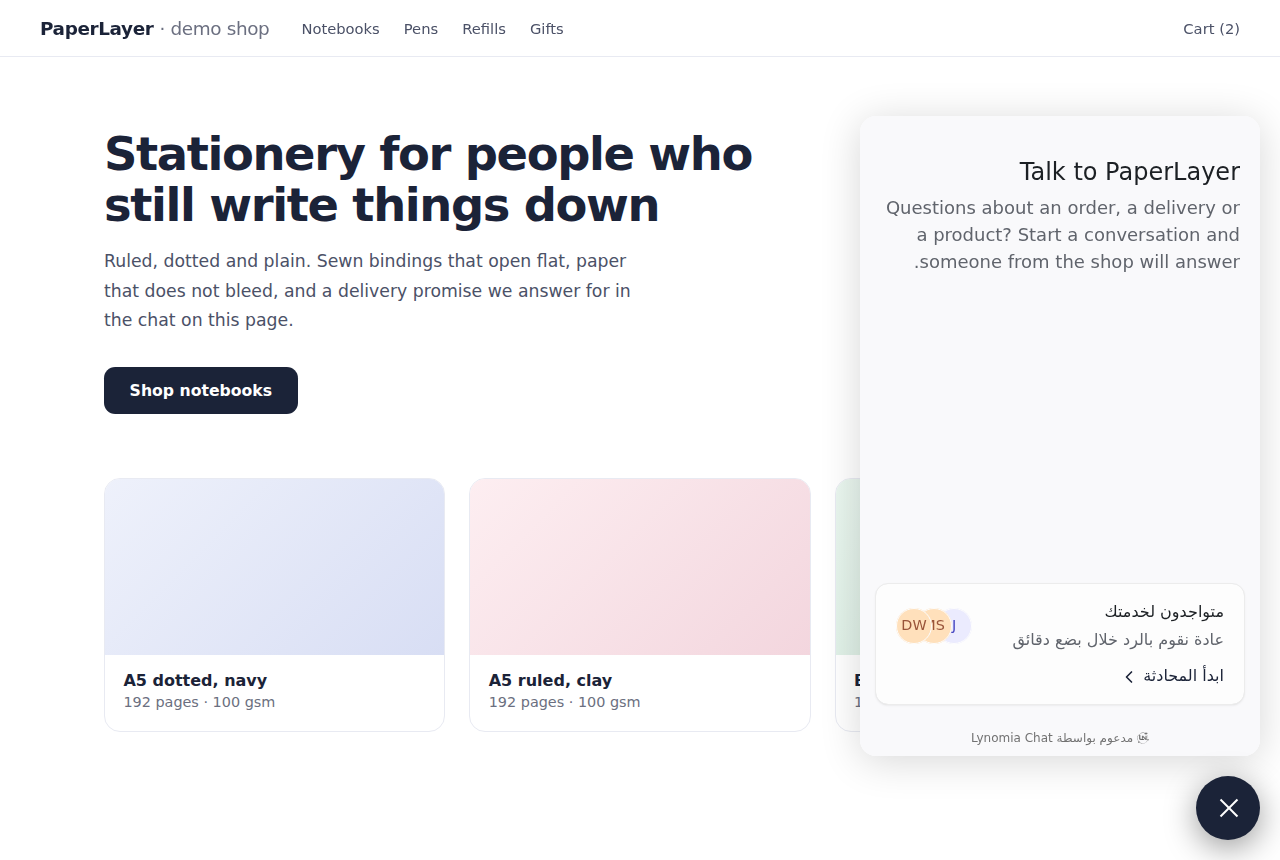
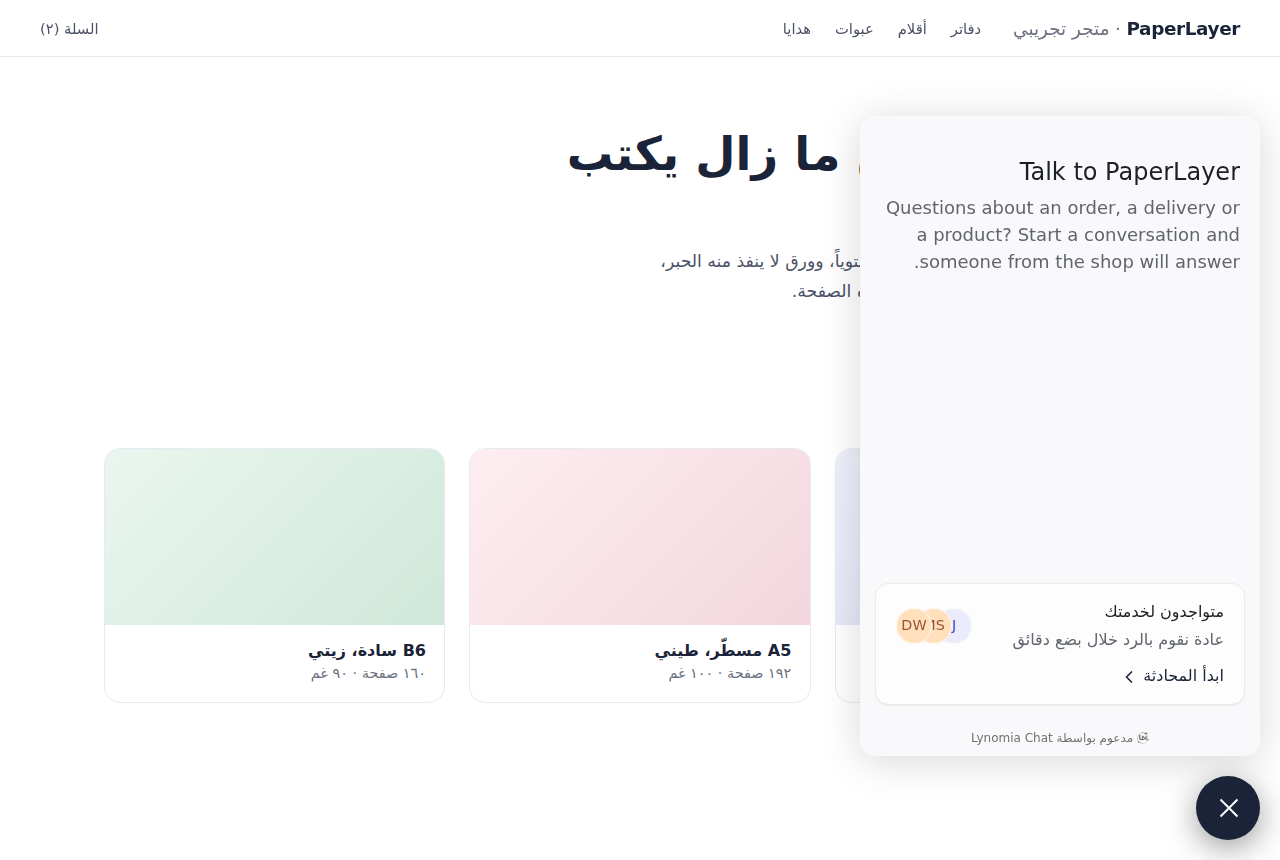
fix(docs): the Arabic corpus renders as Arabic, and three articles now match the code
Five more from the adversarial read, all in what this branch added.

**NINE ARABIC ARTICLES HAD NO STEP LISTS.** They wrote their procedures as `١.` `٢.` `٣.`, and
CommonMark recognises only ASCII digits as an ordered-list marker -- so every one of those lists was
a single run-on paragraph with numerals inline, while the English sibling rendered an `<ol>`.
Measured with the repo's own parser: ar/connect-telegram parsed 0 lists before and 4 lists / 13
items after, which is exactly what its English sibling parses.

**THE ARABIC CHAT-BUBBLE SCREENSHOT WAS THE ENGLISH ONE**, byte for byte -- the only identical pair
in the media tree. Not a copy-paste: the demo shop the widget sits on was hardcoded `lang="en"`, and
the closed launcher carries no text, so an Arabic capture of it could not differ. The host page now
takes its language from the capture script, which keeps the install snippet in one place rather than
forking the file. The Arabic source is a right-to-left Arabic shop now, and the two captures differ.

**THREE ARTICLES DESCRIBED A PRODUCT THAT IS NOT THIS ONE.** An Articles tab in search, which
`help_center: enabled: false` removes for every account in this fork; a three-character search
minimum that is two in `SearchInput.vue`, with an all-digit exception the article's own
search-by-id advice depends on; and three toggles placed in Widget features that `Settings.vue` puts
in Channel Preferences. Corrected in both locales.
[…]

diff --git a/tools/visual/widget-host/index.html b/tools/visual/widget-host/index.html
@@ -20,18 +20,24 @@
 
   THE TOKEN IS A PLACEHOLDER. `__WEBSITE_TOKEN__` and `__BASE_URL__` are substituted by the capture script
   from the database, so this file does not go stale when the seed is rebuilt.
+
+  SO IS THE LANGUAGE. Every word a reader sees, plus `lang` and `dir`, is a placeholder the capture script
+  fills from its own per-locale table. ONE file rather than one per language, because the snippet below is
+  quoted verbatim in the article and a second copy of it is a second thing to keep in step. It also makes
+  the Arabic figure honest: the shop around the widget reads right to left, instead of an English page with
+  an Arabic caption under it.
 -->
-<html lang="en">
+<html lang="__LANG__" dir="__DIR__">
 <head>
   <meta charset="utf-8">
   <meta name="viewport" content="width=device-width, initial-scale=1">
-  <title>PaperLayer — stationery for people who still write things down</title>
+  <title>__TITLE__</title>
   <style>
     :root { color-scheme: light; }
     * { box-sizing: border-box; }
     body {
       margin: 0;
-      font-family: ui-sans-serif, system-ui, -apple-system, "Segoe UI", Roboto, Arial, sans-serif;
+      font-family: __FONT__;
       color: #1b2338;
       background: #fff;
     }
@@ -60,32 +66,31 @@
 </head>
 <body>
   <header>
-    <div class="logo">PaperLayer <span>· demo shop</span></div>
-    <nav><span>Notebooks</span><span>Pens</span><span>Refills</span><span>Gifts</span></nav>
-    <div class="cart">Cart (2)</div>
+    <div class="logo">PaperLayer <span>· __DEMO__</span></div>
+    <nav><span>__NAV1__</span><span>__NAV2__</span><span>__NAV3__</span><span>__NAV4__</span></nav>
+    <div class="cart">__CART__</div>
   </header>
 
   <section class="hero">
-    <h1>Stationery for people who still write things down</h1>
+    <h1>__H1__</h1>
     <p>
-      Ruled, dotted and plain. Sewn bindings that open flat, paper that does not bleed, and a delivery
-      promise we answer for in the chat on this page.
+      __LEDE__
     </p>
-    <a class="buy" href="#">Shop notebooks</a>
+    <a class="buy" href="#">__CTA__</a>
   </section>
 
   <section class="grid">
     <article class="card">
       <div class="swatch" style="background: linear-gradient(135deg,#eef1fb,#d8def4)"></div>
-      <div class="meta"><h2>A5 dotted, navy</h2><p>192 pages · 100 gsm</p></div>
+      <div class="meta"><h2>__P1__</h2><p>__P1META__</p></div>
     </article>
     <article class="card">
       <div class="swatch" style="background: linear-gradient(135deg,#fdeef1,#f3d6de)"></div>
-      <div class="meta"><h2>A5 ruled, clay</h2><p>192 pages · 100 gsm</p></div>
+      <div class="meta"><h2>__P2__</h2><p>__P2META__</p></div>
     </article>
     <article class="card">
       <div class="swatch" style="background: linear-gradient(135deg,#eaf6ef,#cfe8da)"></div>
-      <div class="meta"><h2>B6 plain, sage</h2><p>160 pages · 90 gsm</p></div>
+      <div class="meta"><h2>__P3__</h2><p>__P3META__</p></div>
     </article>
   </section>
 

diff --git a/custom/db/documentation/ar/channels/connect-sms.md b/custom/db/documentation/ar/channels/connect-sms.md
@@ -24,12 +24,12 @@ seo_description: ربط قناة الرسائل النصية في لينوميا
 
 ## الخطوات
 
-١. اذهب إلى **الإعدادات ← قنوات التواصل**، أضف صندوق وارد، واختر **الرسائل النصية**.
-٢. اختر المزوّد: **Twilio** أو **Bandwidth**.
-٣. املأ البيانات، واسم صندوق الوارد، والرقم الذي سترسل منه الرسائل. ويجب أن يكون الرقم بالصيغة الدولية — علامة
+1. اذهب إلى **الإعدادات ← قنوات التواصل**، أضف صندوق وارد، واختر **الرسائل النصية**.
+2. اختر المزوّد: **Twilio** أو **Bandwidth**.
+3. املأ البيانات، واسم صندوق الوارد، والرقم الذي سترسل منه الرسائل. ويجب أن يكون الرقم بالصيغة الدولية — علامة
    `+` ثم أرقام، بلا مسافات.
-٤. أنهِ الإعداد، ثم افتح تبويب **الإعدادات** في القناة وانسخ **عنوان الاستدعاء** (Callback URL).
-٥. الصق ذلك العنوان في لوحة مزوّدك بوصفه عنوان استدعاء الرسائل لذلك الرقم أو التطبيق. هذه هي الخطوة التي
+4. أنهِ الإعداد، ثم افتح تبويب **الإعدادات** في القناة وانسخ **عنوان الاستدعاء** (Callback URL).
+5. الصق ذلك العنوان في لوحة مزوّدك بوصفه عنوان استدعاء الرسائل لذلك الرقم أو التطبيق. هذه هي الخطوة التي
    يتجاوزها الناس، وهي التي تجعل الرسائل الواردة تعمل: فبدونها ترسل ولا تستقبل أبداً.
 
 ## حدود ينبغي معرفتها

diff --git a/custom/db/documentation/ar/channels/connect-telegram.md b/custom/db/documentation/ar/channels/connect-telegram.md
@@ -14,18 +14,18 @@ seo_description: ربط روبوت Telegram بلينوميا تشات عبر Bot
 
 رمز روبوت تيليجرام، وتحصل عليه من **BotFather** — روبوت تيليجرام الخاص بصناعة الروبوتات.
 
-١. في تيليجرام، افتح محادثة مع `@BotFather`.
-٢. أرسل `/newbot`.
-٣. أعطه اسماً ظاهراً، واسم مستخدم ينتهي بـ `bot`.
-٤. يردّ BotFather برمز يشبه `123456789:AAH...`. وهذا ما تلصقه.
+1. في تيليجرام، افتح محادثة مع `@BotFather`.
+2. أرسل `/newbot`.
+3. أعطه اسماً ظاهراً، واسم مستخدم ينتهي بـ `bot`.
+4. يردّ BotFather برمز يشبه `123456789:AAH...`. وهذا ما تلصقه.
 
 والاسم الظاهر وصورة الملف اللذان يراهما عملاؤك يخصّان الروبوت، وتغيّرهما في BotFather — لا في لينوميا تشات.
 
 ## الخطوات
 
-١. اذهب إلى **الإعدادات ← قنوات التواصل**، أضف صندوق وارد، واختر **تيليجرام**.
-٢. الصق **رمز الروبوت**.
-٣. أضف الوكلاء الذين سيعملون في هذه القناة، ثم أنهِ الإعداد.
+1. اذهب إلى **الإعدادات ← قنوات التواصل**، أضف صندوق وارد، واختر **تيليجرام**.
+2. الصق **رمز الروبوت**.
+3. أضف الوكلاء الذين سيعملون في هذه القناة، ثم أنهِ الإعداد.
 
 يسجّل لينوميا تشات نفسه لدى تيليجرام بوصفه webhook الروبوت، فتبدأ الرسائل بالوصول فوراً. أرسل إلى روبوتك
 رسالة من حسابك الشخصي لتراها تهبط.

diff --git a/custom/db/documentation/ar/channels/connect-email.md b/custom/db/documentation/ar/channels/connect-email.md
@@ -21,11 +21,11 @@ seo_description: ربط قناة البريد الإلكتروني في لينو
 
 ## الخطوات
 
-١. اذهب إلى **الإعدادات ← قنوات التواصل**، أضف صندوق وارد، واختر **البريد الإلكتروني**.
-٢. أعطِ القناة اسماً، والعنوان الذي يكتب إليه عملاؤك.
-٣. أنهِ الإعداد. تعرض الشاشة الأخيرة **عنوان إعادة التوجيه** — عنواناً طويلاً فريداً على نطاق البريد الوارد
+1. اذهب إلى **الإعدادات ← قنوات التواصل**، أضف صندوق وارد، واختر **البريد الإلكتروني**.
+2. أعطِ القناة اسماً، والعنوان الذي يكتب إليه عملاؤك.
+3. أنهِ الإعداد. تعرض الشاشة الأخيرة **عنوان إعادة التوجيه** — عنواناً طويلاً فريداً على نطاق البريد الوارد
    للتثبيت. وكل ما يُعاد توجيهه إليه يصبح محادثة على هذه القناة.
-٤. إما أن تضبط إعادة التوجيه عند مزوّد بريدك إلى ذلك العنوان، وإما أن تفتح إعدادات القناة وتهيّئ **IMAP**
+4. إما أن تضبط إعادة التوجيه عند مزوّد بريدك إلى ذلك العنوان، وإما أن تفتح إعدادات القناة وتهيّئ **IMAP**
    (للاستقبال) و**SMTP** (للإرسال) بدلاً منه.
 
 وIMAP وSMTP مفتاحان لا مفتاح واحد، وهما مستقلّان. فتشغيل IMAP دون SMTP يستقبل البريد ويرسل الردود من خادم

diff --git a/custom/db/documentation/ar/channels/connect-line.md b/custom/db/documentation/ar/channels/connect-line.md
@@ -21,11 +21,11 @@ seo_description: ربط حساب LINE الرسمي بلينوميا تشات —
 
 ## الخطوات
 
-١. اذهب إلى **الإعدادات ← قنوات التواصل**، أضف صندوق وارد، واختر **لاين**.
-٢. أدخل اسم قناة للوحة تحكّمك، ثم معرّف القناة وسرّها ورمز الوصول.
-٣. أنهِ الإعداد. افتح تبويب **الإعدادات** في القناة وانسخ **عنوان الاستدعاء**.
-٤. في LINE Developers Console، اجعل ذلك العنوان هو **Webhook URL** للقناة، وفعّل "Use webhook".
-٥. في اللوحة نفسها، **عطّل** الردود التلقائية ورسائل الترحيب إن أردت أن يكون وكلاؤك هم من يردّ. فلاين يردّ
+1. اذهب إلى **الإعدادات ← قنوات التواصل**، أضف صندوق وارد، واختر **لاين**.
+2. أدخل اسم قناة للوحة تحكّمك، ثم معرّف القناة وسرّها ورمز الوصول.
+3. أنهِ الإعداد. افتح تبويب **الإعدادات** في القناة وانسخ **عنوان الاستدعاء**.
+4. في LINE Developers Console، اجعل ذلك العنوان هو **Webhook URL** للقناة، وفعّل "Use webhook".
+5. في اللوحة نفسها، **عطّل** الردود التلقائية ورسائل الترحيب إن أردت أن يكون وكلاؤك هم من يردّ. فلاين يردّ
    نيابة عن الحساب افتراضياً، وتلك الردود لا تأتي من لينوميا تشات.
 
 ## حدود ينبغي معرفتها

diff --git a/custom/db/documentation/en/channels/website-live-chat.md b/custom/db/documentation/en/channels/website-live-chat.md
@@ -116,7 +116,7 @@ you save.
 | the colour of the bubble and the visitor's messages | Widget Color |
 | "Typically replies in a few minutes" | Reply time |
 | "We are Online" / "We are away at the moment" | whether any agent of this channel is online right now |
-| the first reply the visitor receives | the channel greeting |
+| the first reply the visitor receives | the channel greeting, in **Channel Preferences** |
 | the paper-clip, the emoji button, "End conversation" | Features |
 
 **Reply time is a promise you are making, not a measurement.** It says what you choose — a few minutes, a
@@ -157,13 +157,14 @@ contact with an email address is worth a great deal — you can reply when they 
 can continue over email. Asking for a name and an email is usually right; asking for a phone number, a
 company and an order number usually is not.
 
-If you do not use a pre-chat form, switch on the **email collect box** instead (in Widget features). It asks
+If you do not use a pre-chat form, switch on the **email collect box** instead (in **Channel Preferences**, the accordion below Widget
+features). It asks
 for an email address inside the conversation, after the visitor has already started talking to you, which
 costs far fewer of them.
 
 ## Making the channel yours
 
-Three settings on the **Widget features** section decide how the conversation behaves rather than how it
+Three settings on the **Channel Preferences** section decide how the conversation behaves rather than how it
 looks:
 
 - **Enable email collect box** — asks an anonymous visitor for their email address inside the chat.

diff --git a/custom/db/documentation/ar/channels/connect-facebook-and-instagram.md b/custom/db/documentation/ar/channels/connect-facebook-and-instagram.md
@@ -19,11 +19,11 @@ seo_description: ربط صفحة فيسبوك وحساب إنستغرام بلي
 
 ## الخطوات
 
-١. اذهب إلى **الإعدادات ← قنوات التواصل**، أضف صندوق وارد، واختر **فيسبوك** أو **إنستغرام**.
-٢. سجّل الدخول إلى Meta في النافذة التي تُفتح، وامنح الصلاحيات التي تطلبها. وهي تغطي قراءة رسائل الصفحة أو
+1. اذهب إلى **الإعدادات ← قنوات التواصل**، أضف صندوق وارد، واختر **فيسبوك** أو **إنستغرام**.
+2. سجّل الدخول إلى Meta في النافذة التي تُفتح، وامنح الصلاحيات التي تطلبها. وهي تغطي قراءة رسائل الصفحة أو
    الحساب وإرسالها، لا أكثر.
-٣. اختر الصفحة أو الحساب من القائمة، وسمِّ صندوق الوارد، وأنهِ الإعداد.
-٤. أضف الوكلاء الذين سيعملون فيه.
+3. اختر الصفحة أو الحساب من القائمة، وسمِّ صندوق الوارد، وأنهِ الإعداد.
+4. أضف الوكلاء الذين سيعملون فيه.
 
 وتقيّد Meta هذا المسار أحياناً من طرفها. وحين يحدث ذلك تقول الشاشة ذلك وتحيلك إلى صفحة حالة Meta نفسها؛ وليس
 أمراً تحلّه بإعادة المحاولة.

diff --git a/custom/db/documentation/ar/channels/connect-api-channel.md b/custom/db/documentation/ar/channels/connect-api-channel.md
@@ -21,11 +21,11 @@ seo_description: قناة API في لينوميا تشات — معرّف صند
 
 ## الخطوات
 
-١. اذهب إلى **الإعدادات ← قنوات التواصل**، أضف صندوق وارد، واختر **API**.
-٢. أعطها اسماً، و**عنوان webhook** — حيث سيرسل لينوميا تشات الأحداث، ومنها كل ردّ يرسله وكيل. ويمكنك تركه
+1. اذهب إلى **الإعدادات ← قنوات التواصل**، أضف صندوق وارد، واختر **API**.
+2. أعطها اسماً، و**عنوان webhook** — حيث سيرسل لينوميا تشات الأحداث، ومنها كل ردّ يرسله وكيل. ويمكنك تركه
    فارغاً وإضافته لاحقاً من إعدادات القناة.
-٣. أنهِ الإعداد وأضف الوكلاء.
-٤. افتح تبويب **الإعدادات** في القناة. يعرض **معرّف صندوق الوارد** (Inbox Identifier)، وهو الرمز الذي يصادق
+3. أنهِ الإعداد وأضف الوكلاء.
+4. افتح تبويب **الإعدادات** في القناة. يعرض **معرّف صندوق الوارد** (Inbox Identifier)، وهو الرمز الذي يصادق
    به تطبيقك.
 
 ومن هناك، ينشئ تطبيقك جهة اتصال، ثم محادثة لها، ثم يُدخل الرسائل في تلك المحادثة. ومرجع الواجهة البرمجية

diff --git a/custom/db/documentation/ar/analytics/analytics-overview.md b/custom/db/documentation/ar/analytics/analytics-overview.md
@@ -43,11 +43,11 @@ seo_description: شاشة نظرة التحليلات العامة في لينو
 
 الرسم هو المقياس نفسه عبر الزمن، مجمّعاً باليوم أو الأسبوع أو الشهر. وثلاث قراءات تستحق أن تصير عادة:
 
-١. **المبدوءة مقابل المحلولة.** فإن كانت المبدوءة أعلى باستمرار، فالمتراكم ينمو، ولن تصلحه أي سرعة على
+1. **المبدوءة مقابل المحلولة.** فإن كانت المبدوءة أعلى باستمرار، فالمتراكم ينمو، ولن تصلحه أي سرعة على
    المحادثات المفردة.
-٢. **أول ردّ مقابل وعدك.** فإن كانت أداة موقعك تقول "عادةً نردّ خلال دقائق" وهذه تقول ساعات، فأحدهما يجب أن
+2. **أول ردّ مقابل وعدك.** فإن كانت أداة موقعك تقول "عادةً نردّ خلال دقائق" وهذه تقول ساعات، فأحدهما يجب أن
    يتغيّر.
-٣. **شكل الأسبوع.** فمكان وقوع الحجم يخبرك متى تضع الناس، وهو لا يتوزّع بالتساوي أبداً تقريباً.
+3. **شكل الأسبوع.** فمكان وقوع الحجم يخبرك متى تضع الناس، وهو لا يتوزّع بالتساوي أبداً تقريباً.
 
 ## حدود ينبغي معرفتها
 

diff --git a/docs/screenshots/README.md b/docs/screenshots/README.md
@@ -99,6 +99,15 @@ bundle exec rails runner 'u = User.find(1); u.tokens = {}; u.save!; u.user_sessi
 ## Privacy
 
 Every capture is taken against the local seeded database (`rails db:seed`, the `acme.inc` demo
-account). There is no real customer conversation, contact, phone number, address or token in any of
-them. Before a source is committed it is looked at. A screenshot that would need blurring is
-re-captured with different data instead.
+account). There is no real customer conversation, contact, phone number or address in any of them.
+Before a source is committed it is looked at. A screenshot that would need blurring is re-captured
+with different data instead.
+
+**One exception, and it is deliberate: a source can hold a website token.** The install-snippet
+captures (`sources/app/{en,ar}/website-script.png`) show the seeded website channel's token in clear
+text, because that is the screen -- the whole point of the figure is the snippet an administrator
+copies. It is a value `rails db:seed` generated for an inbox whose `BASE_URL` is
+`http://localhost:3000`; it authorises nothing anywhere else, and it is replaced the next time the
+seed is rebuilt. The PUBLISHED figure covers it: the spec carries a `redact` box over the token, and
+that is what the article shows. Treat the uncropped source as dev-only, and never point a `redact`
+at a capture taken against anything but a local seed.
